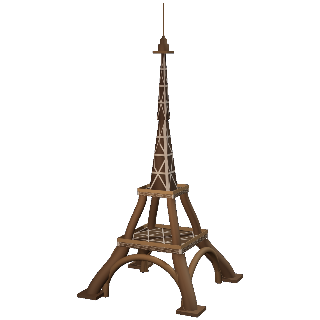
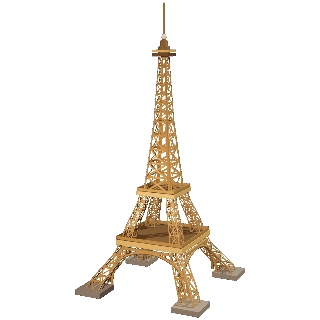
Rebuild the Eiffel Tower as open ironwork (user feedback)
The proportions were right but the tower had no ironwork: solid tube
legs, loose pipe-hoop arches, and a solid wedge above with crosses
painted on it.

- 'truss' texture: chords, struts and X bracing with nothing between,
  alpha-tested, so the structure is see-through.
- Legs are square braced pylons swept along their curve and tapering,
  on stone footings.
- 'eifarch' shape: each great arch has a chord under the first platform
  and struts tying the two together.
- The taper above the second platform is two lifts of open lattice.
- Platforms are dark decks with a lit gallery band and railing; the top
  has a cabin, beacon and thicker mast. Bronze with a gold glow.

Same number of pieces, so the build plays as before.

Changed region(s): [[0.2188, 0.0, 0.7812, 1.0]]

diff --git a/src/puzzle/landmarks.js b/src/puzzle/landmarks.js
@@ -70,7 +70,7 @@ function arcade(y, R, h, n, c, tex, texN, coverage = 1, startA = 0) {
 // cover y0..h, which is what the scatter and the build order read.
 function eifleg(x0, z0, x1, z1, h, r, c, y0 = 0) {
   return B([(x0 + x1) / 2, (y0 + h) / 2, (z0 + z1) / 2], [Math.abs(x0 - x1) + r * 2, h - y0, Math.abs(z0 - z1) + r * 2],
-    c, 'eifleg', { leg: { x0, z0, x1, z1, h, r, y0 }, em: '#ff9d5a', emI: 0.08 });
+    c, 'eifleg', { leg: { x0, z0, x1, z1, h, r, y0 }, tex: 'truss', tx: { rows: y0 ? 5 : 4 }, em: '#ffb060', emI: 0.3 });
 }
 
 // Painted Ladies row house: the body, and the gable roof above it. The body
@@ -245,60 +245,62 @@ const defs = {
   ],
 
   // ================= PARIS =================
-  // Eiffel: dark iron-bronze, +30% height, thin curved legs flowing
-  // continuously into a thin trussed first platform, high-contrast lattice.
+  // The Eiffel Tower. Proportions are the real ones, as fractions of its
+  // 330 m: base 0.38 wide, platforms at 0.17, 0.35 and 0.84. What makes it
+  // the Eiffel Tower rather than a mast is the IRONWORK, so the structure is
+  // open lattice you can see through (the 'truss' texture, alpha-tested): the
+  // four legs are square braced pylons that stay separate up to the second
+  // platform, the great arches are tied up into the first platform by their
+  // struts, and the long taper above is lattice too. It glows gold, as the
+  // tower does once it is lit at dusk.
   eiffel: [
-    // Real proportions, as fractions of the 330m height: base 0.38 wide, first
-    // platform at 0.17, second at 0.35, third at 0.84. The old tower had the
-    // first two at 0.26 and 0.52 on a base only 0.29 wide, which stretched the
-    // middle and read as a radio mast. The four legs also stay separate piers
-    // right up to the SECOND platform, as the real ones do, instead of merging
-    // at the first. Colour is the lighter "Eiffel Tower brown" it is painted,
-    // not near-black; the lattice texture darkens it further on its own.
-    eifleg(-5.1, -5.1, -2.85, -2.85, 4.6, 0.64, '#5d4c3d'),
-    eifleg(5.1, -5.1, 2.85, -2.85, 4.6, 0.64, '#5d4c3d'),
-    eifleg(-5.1, 5.1, -2.85, 2.85, 4.6, 0.64, '#5d4c3d'),
-    eifleg(5.1, 5.1, 2.85, 2.85, 4.6, 0.64, '#5d4c3d'),
-    // the four great arches, springing near the ground and meeting the
+    eifleg(-5.1, -5.1, -2.85, -2.85, 4.6, 0.8, '#a88048'),
+    eifleg(5.1, -5.1, 2.85, -2.85, 4.6, 0.8, '#a88048'),
+    eifleg(-5.1, 5.1, -2.85, 2.85, 4.6, 0.8, '#a88048'),
+    eifleg(5.1, 5.1, 2.85, 2.85, 4.6, 0.8, '#a88048'),
+    // the four great arches, springing from the legs and tied to the
     // underside of the first platform — sortY brings them after the legs
-    B([0, -0.2, 4.1], [9.2, 4.6, 0.62], '#6b5843', 'arch', { sortY: 3.0 }),
-    B([0, -0.2, -4.1], [9.2, 4.6, 0.62], '#6b5843', 'arch', { sortY: 3.0 }),
-    B([4.1, -0.2, 0], [9.2, 4.6, 0.62], '#6b5843', 'arch', { rotY: Math.PI / 2, sortY: 3.0 }),
-    B([-4.1, -0.2, 0], [9.2, 4.6, 0.62], '#6b5843', 'arch', { rotY: Math.PI / 2, sortY: 3.0 }),
-    // first platform, wider than the legs beneath it, arriving with its rails
-    B([0, 4.8, 0], [6.6, 0.45, 6.6], '#6a5742', 'box', {
-      tex: 'lattice', em: '#ffb96a', emI: 0.3,
+    B([0, 2.45, 3.6], [8.6, 3.5, 0.26], '#b08850', 'eifarch', { chord: 5.4, sortY: 3.0, em: '#ffb060', emI: 0.3 }),
+    B([0, 2.45, -3.6], [8.6, 3.5, 0.26], '#b08850', 'eifarch', { chord: 5.4, sortY: 3.0, em: '#ffb060', emI: 0.3 }),
+    B([3.6, 2.45, 0], [8.6, 3.5, 0.26], '#b08850', 'eifarch', { chord: 5.4, rotY: Math.PI / 2, sortY: 3.0, em: '#ffb060', emI: 0.3 }),
+    B([-3.6, 2.45, 0], [8.6, 3.5, 0.26], '#b08850', 'eifarch', { chord: 5.4, rotY: Math.PI / 2, sortY: 3.0, em: '#ffb060', emI: 0.3 }),
+    // first platform: the deck, its lit gallery band and its railing
+    B([0, 4.85, 0], [7.0, 0.5, 7.0], '#6a5234', 'box', {
       adorn: [
-        B([0, 0.4, 3.26], [6.6, 0.34, 0.07], '#7a664e'),
-        B([0, 0.4, -3.26], [6.6, 0.34, 0.07], '#7a664e'),
-        B([3.26, 0.4, 0], [0.07, 0.34, 6.6], '#7a664e'),
-        B([-3.26, 0.4, 0], [0.07, 0.34, 6.6], '#7a664e'),
+        ...[[0, 3.52, 7.0, 0.06], [0, -3.52, 7.0, 0.06]].map(([x, z, ww, dd]) => B([x, 0, z], [ww, 0.5, dd], '#d8a860', 'box', { em: '#ffc470', emI: 0.75 })),
+        ...[[3.52, 0, 0.06, 7.0], [-3.52, 0, 0.06, 7.0]].map(([x, z, ww, dd]) => B([x, 0, z], [ww, 0.5, dd], '#d8a860', 'box', { em: '#ffc470', emI: 0.75 })),
+        B([0, 0.45, 3.46], [7.0, 0.3, 0.07], '#a88048'), B([0, 0.45, -3.46], [7.0, 0.3, 0.07], '#a88048'),
+        B([3.46, 0.45, 0], [0.07, 0.3, 7.0], '#a88048'), B([-3.46, 0.45, 0], [0.07, 0.3, 7.0], '#a88048'),
       ],
     }),
-    // second storey: the same four piers, leaning in to meet the second platform
-    eifleg(-2.55, -2.55, -1.45, -1.45, 9.4, 0.42, '#5d4c3d', 5.0),
-    eifleg(2.55, -2.55, 1.45, -1.45, 9.4, 0.42, '#5d4c3d', 5.0),
-    eifleg(-2.55, 2.55, -1.45, 1.45, 9.4, 0.42, '#5d4c3d', 5.0),
-    eifleg(2.55, 2.55, 1.45, 1.45, 9.4, 0.42, '#5d4c3d', 5.0),
-    B([0, 9.55, 0], [3.7, 0.35, 3.7], '#6a5742', 'box', {
-      tex: 'lattice', em: '#ffb96a', emI: 0.3,
+    // second storey: the same four pylons, leaning in to the second platform
+    eifleg(-2.55, -2.55, -1.45, -1.45, 9.4, 0.56, '#a88048', 5.1),
+    eifleg(2.55, -2.55, 1.45, -1.45, 9.4, 0.56, '#a88048', 5.1),
+    eifleg(-2.55, 2.55, -1.45, 1.45, 9.4, 0.56, '#a88048', 5.1),
+    eifleg(2.55, 2.55, 1.45, 1.45, 9.4, 0.56, '#a88048', 5.1),
+    B([0, 9.6, 0], [4.0, 0.4, 4.0], '#6a5234', 'box', {
       adorn: [
-        B([0, 0.34, 1.83], [3.7, 0.3, 0.06], '#7a664e'),
-        B([0, 0.34, -1.83], [3.7, 0.3, 0.06], '#7a664e'),
-        B([1.83, 0.34, 0], [0.06, 0.3, 3.7], '#7a664e'),
-        B([-1.83, 0.34, 0], [0.06, 0.3, 3.7], '#7a664e'),
+        ...[[0, 2.02, 4.0, 0.06], [0, -2.02, 4.0, 0.06]].map(([x, z, ww, dd]) => B([x, 0, z], [ww, 0.4, dd], '#d8a860', 'box', { em: '#ffc470', emI: 0.75 })),
+        ...[[2.02, 0, 0.06, 4.0], [-2.02, 0, 0.06, 4.0]].map(([x, z, ww, dd]) => B([x, 0, z], [ww, 0.4, dd], '#d8a860', 'box', { em: '#ffc470', emI: 0.75 })),
+        B([0, 0.38, 1.96], [4.0, 0.26, 0.06], '#a88048'), B([0, 0.38, -1.96], [4.0, 0.26, 0.06], '#a88048'),
+        B([1.96, 0.38, 0], [0.06, 0.26, 4.0], '#a88048'), B([-1.96, 0.38, 0], [0.06, 0.26, 4.0], '#a88048'),
       ],
     }),
-    // the long taper to the top, in two lifts
-    B([0, 13.1, 0], [2.9, 6.8, 2.9], '#5a493b', 'cone4', { tex: 'lattice', em: '#ff9d5a', emI: 0.1 }),
-    B([0, 19.6, 0], [1.3, 6.2, 1.3], '#5a493b', 'cone4', { tex: 'lattice', em: '#ff9d5a', emI: 0.1 }),
-    // third platform, and the lantern-topped campanile above it
-    B([0, 22.8, 0], [1.5, 0.22, 1.5], '#6a5742', 'box', { em: '#ffb96a', emI: 0.36 }),
-    B([0, 23.6, 0], [1.1, 1.4, 1.1], '#62503f', 'lathe', {
-      profile: [[0.95, 0], [0.95, 0.42], [0.62, 0.5], [0.62, 0.78], [0.34, 0.84], [0.18, 1]],
-      seg: 8, em: '#ffd9a0', emI: 0.22,
+    // the long taper to the top, in two lifts of open lattice
+    B([0, 13.2, 0], [3.0, 6.8, 1.5], '#a88048', 'tier', { sides: 4, tex: 'truss', tx: { rows: 5 }, em: '#ffb060', emI: 0.3 }),
+    B([0, 19.7, 0], [1.5, 6.2, 0.78], '#a88048', 'tier', { sides: 4, tex: 'truss', tx: { rows: 7 }, em: '#ffb060', emI: 0.3 }),
+    // third platform with its cabin, and the beacon and mast above
+    B([0, 23.0, 0], [1.7, 0.3, 1.7], '#6a5234', 'box', {
+      adorn: [B([0, 0.35, 0], [1.75, 0.22, 1.75], '#d8a860', 'box', { em: '#ffc470', emI: 0.8 })],
     }),
-    B([0, 25.8, 0], [0.09, 3.0, 0.09], '#8a7458', 'cyl', { metal: 1, em: '#ffd9a0', emI: 0.7 }),
+    B([0, 23.9, 0], [1.2, 1.5, 1.2], '#8a6a40', 'lathe', {
+      profile: [[0.95, 0], [0.95, 0.4], [0.62, 0.5], [0.62, 0.78], [0.34, 0.86], [0.2, 1]],
+      seg: 8, em: '#ffd9a0', emI: 0.35,
+    }),
+    B([0, 26.2, 0], [0.16, 3.4, 0.16], '#b89866', 'cyl', {
+      metal: 1, em: '#ffd9a0', emI: 0.7,
+      adorn: [B([0, -1.5, 0], [0.5, 0.5, 0.5], '#fff4c8', 'sphere', { em: '#fff0b0', emI: 1.4 })],
+    }),
   ],
 
   // Arc de Triomphe: attic flush with the legs, inset vault for shadow

diff --git a/src/puzzle/puzzle.js b/src/puzzle/puzzle.js
@@ -104,7 +104,7 @@ function makeBlockTexture(def) {
   const key = `${tex}|${c}|${JSON.stringify(tx)}`;
   // the pyramid's mullion grid needs the extra resolution — a cylinder UV
   // gives each of the four faces only a quarter of the texture width
-  const SZ = tex === 'glass' ? 512 : 256;
+  const SZ = tex === 'glass' || tex === 'truss' ? 512 : 256;
   return cachedTex(key, SZ, SZ, (g, S) => {
     if (tex === 'lattice') {
       // Painted iron lattice. The girder highlight is deliberately restrained:
@@ -199,6 +199,30 @@ function makeBlockTexture(def) {
         g.beginPath();
         g.moveTo(x - 5, S * 0.16); g.quadraticCurveTo(x, S * 0.05, x + 5, S * 0.16);
         g.lineTo(x + 5, S * 0.3); g.lineTo(x - 5, S * 0.3); g.closePath(); g.fill();
+      }
+      return;
+    }
+    if (tex === 'truss') {
+      // Open ironwork: nothing is painted between the members, so the block
+      // is see-through (the material alpha-tests it). Four columns, one per
+      // face of a square pylon, by tx.rows panels. Each panel is two chords
+      // down its edges, a strut top and bottom, and an X of bracing.
+      g.clearRect(0, 0, S, S);
+      const cols = 4, rows = tx.rows || 4;
+      const cw = S / cols, ch = S / rows;
+      const hi = shade(c, 0.22), lo = shade(c, -0.18);
+      for (let i = 0; i < cols; i++) for (let j = 0; j < rows; j++) {
+        const x = i * cw, y = j * ch, e = cw * 0.11;
+        g.fillStyle = c;
+        g.fillRect(x, y, e, ch); g.fillRect(x + cw - e, y, e, ch);               // chords
+        g.fillRect(x, y, cw, ch * 0.07); g.fillRect(x, y + ch * 0.93, cw, ch * 0.07);   // struts
+        g.fillStyle = hi; g.fillRect(x, y, e * 0.35, ch);
+        g.fillStyle = lo; g.fillRect(x + cw - e * 0.35, y, e * 0.35, ch);
+        g.strokeStyle = c; g.lineWidth = Math.max(3, cw * 0.075); g.lineCap = 'butt';
+        g.beginPath(); g.moveTo(x + e, y); g.lineTo(x + cw - e, y + ch);
+        g.moveTo(x + cw - e, y); g.lineTo(x + e, y + ch); g.stroke();
+        g.strokeStyle = hi; g.lineWidth = 1.5;
+        g.beginPath(); g.moveTo(x + e, y + 1); g.lineTo(x + cw - e, y + ch + 1); g.stroke();
       }
       return;
     }
@@ -1132,7 +1156,7 @@ function blockMaterial(def, isGhost) {
     });
   }
   const color = new THREE.Color(def.c);
-  const seeThru = def.tex === 'archcut';
+  const seeThru = def.tex === 'archcut' || def.tex === 'truss';
   const wet = def.shape === 'water' || def.wet;
   const mat = new THREE.MeshStandardMaterial({
     // textured blocks paint their colour into the map, so the material tints
@@ -1201,11 +1225,34 @@ export function makeBlockMesh(def, isGhost = false, isChild = false) {
       const P2 = new THREE.Vector3(P3.x, y0 - py + span * 0.74, P3.z);
       const curve = new THREE.CubicBezierCurve3(P0, P1, P2, P3);
       out = new THREE.Group();
-      out.add(new THREE.Mesh(new THREE.TubeGeometry(curve, 20, L.r, 8), mat));
+      // A square pylon swept along the curve, its section level and tapering
+      // toward the top. Each face takes a quarter of the texture's width, so
+      // the 'truss' texture gives every face its own column of braced panels
+      // and the leg is open ironwork, not a solid tube.
+      const N = 18, pos = [], uv = [];
+      const ring = (t) => {
+        const c0 = curve.getPoint(t), hw = L.r * (1 - 0.32 * t);
+        return [[-hw, -hw], [hw, -hw], [hw, hw], [-hw, hw]].map(([dx, dz]) => [c0.x + dx, c0.y, c0.z + dz]);
+      };
+      for (let i = 0; i < N; i++) {
+        const t0 = i / N, t1 = (i + 1) / N, r0 = ring(t0), r1 = ring(t1);
+        for (let f = 0; f < 4; f++) {
+          const a0 = r0[f], b0 = r0[(f + 1) % 4], a1 = r1[f], b1 = r1[(f + 1) % 4];
+          const u0 = f / 4, u1 = (f + 1) / 4;
+          pos.push(...a0, ...b0, ...b1, ...a0, ...b1, ...a1);
+          uv.push(u0, t0, u1, t0, u1, t1, u0, t0, u1, t1, u0, t1);
+        }
+      }
+      const lg = new THREE.BufferGeometry();
+      lg.setAttribute('position', new THREE.Float32BufferAttribute(pos, 3));
+      lg.setAttribute('uv', new THREE.Float32BufferAttribute(uv, 2));
+      lg.computeVertexNormals();
+      out.add(new THREE.Mesh(lg, mat));
       // broad foot pad, on the ground legs only
       if (!y0) {
-        const foot = new THREE.Mesh(new THREE.BoxGeometry(L.r * 3.2, 0.3, L.r * 3.2), mat);
-        foot.position.set(P0.x, P0.y + 0.15, P0.z);
+        const footMat = isGhost ? mat : new THREE.MeshStandardMaterial({ color: '#8d8478', roughness: 0.85 });
+        const foot = new THREE.Mesh(new THREE.BoxGeometry(L.r * 3.4, 0.5, L.r * 3.4), footMat);
+        foot.position.set(P0.x, P0.y + 0.25, P0.z);
         out.add(foot);
       }
       break;
@@ -1288,6 +1335,31 @@ export function makeBlockMesh(def, isGhost = false, isChild = false) {
     case 'arch': {
       const tube = d / 2;
       geo = new THREE.TorusGeometry((w - d) / 2, tube, 10, 32, Math.PI);
+      break;
+    }
+    case 'eifarch': {
+      // One of the Eiffel Tower's four great arches: the arc itself, a chord
+      // along the underside of the first platform, and the struts between
+      // them, so it reads as ironwork tied into the tower, not a loose hoop.
+      // s: [span, rise, thickness]; def.chord is the chord's length.
+      out = new THREE.Group();
+      const pts = [];
+      for (let i = 0; i <= 24; i++) {
+        const a = (i / 24) * Math.PI;
+        pts.push(new THREE.Vector3(Math.cos(a) * w / 2, -h / 2 + Math.sin(a) * h, 0));
+      }
+      out.add(new THREE.Mesh(new THREE.TubeGeometry(new THREE.CatmullRomCurve3(pts), 40, d / 2, 6), mat));
+      const chord = def.chord || w * 0.62, top = h / 2 + d * 0.6;
+      const bar = new THREE.Mesh(new THREE.BoxGeometry(chord, d * 0.8, d * 0.8), mat);
+      bar.position.y = top; out.add(bar);
+      const n = 9;
+      for (let i = 0; i < n; i++) {
+        const x = -chord / 2 + (i + 0.5) * (chord / n);
+        const y0 = -h / 2 + h * Math.sqrt(Math.max(0, 1 - (2 * x / w) ** 2));
+        if (top - y0 < 0.12) continue;
+        const st = new THREE.Mesh(new THREE.BoxGeometry(d * 0.45, top - y0, d * 0.45), mat);
+        st.position.set(x, (top + y0) / 2, 0); out.add(st);
+      }
       break;
     }
     case 'arcseg': {
